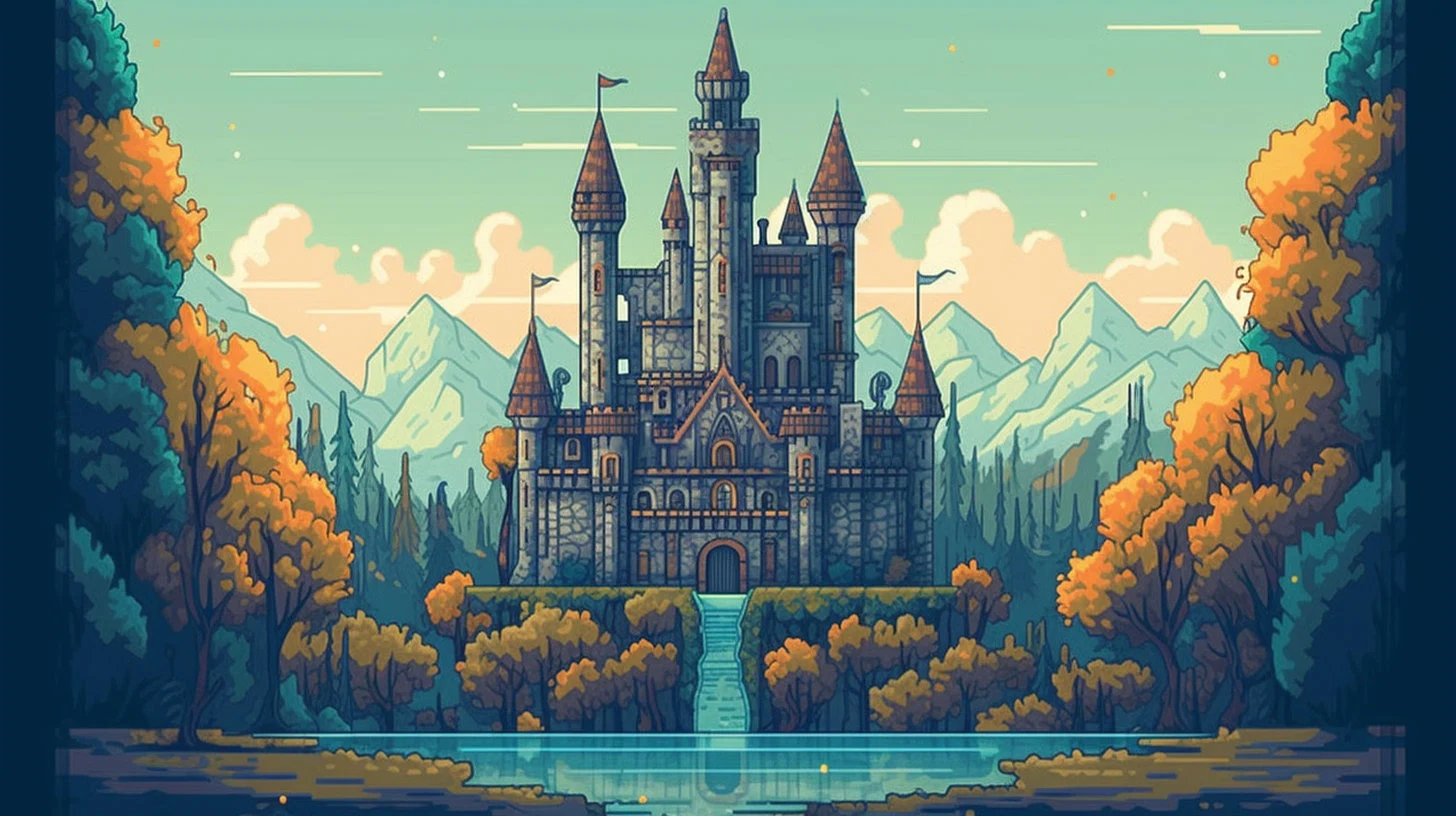
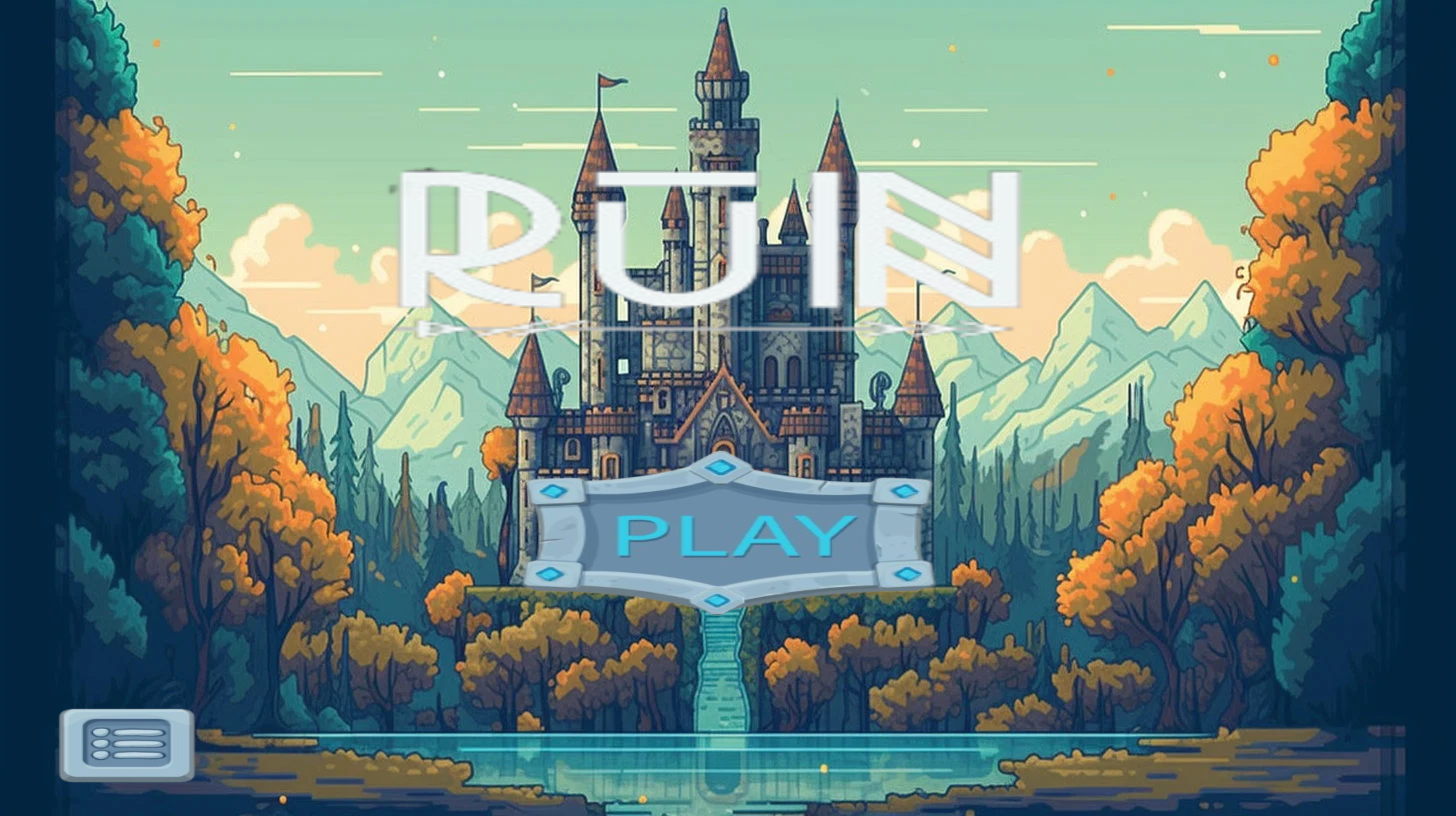
9032542356

Changed region(s): [[0.2473, 0.1838, 0.7109, 0.4289], [0.34, 0.5515, 0.649, 0.7659], [0.0309, 0.8578, 0.1545, 0.9804]]

diff --git a/main.py b/main.py
@@ -8,6 +8,8 @@ from clases.muro import muro
 from constants import *
 
 menu_flag = True
+game_over_flag = False
+
 direccion = True
 direccion_enemy = True
 aparicion_level1 = True
@@ -23,8 +25,6 @@ flag_coin2 = False
 flag_coin3 = False
 fin_timer = False
 win_flag = False
-game_flag = True #false
-game_over_flag = False
 
 milis = pygame.time.Clock()
 
@@ -50,6 +50,8 @@ imagen_level3 = pygame.image.load("./imgs/level 3.png") # Cargar imagen del fond
 level3_img = pygame.transform.scale(imagen_level3, (LARGO_PANTALLA, ANCHO_PANTALLA))
 imagen_ganar = pygame.image.load("imgs\end_img.png") # Cargar imagen del fondo
 win_img = pygame.transform.scale(imagen_ganar, (LARGO_PANTALLA, ANCHO_PANTALLA))
+imagen_menu = pygame.image.load("imgs\\fondo_game.png") # Cargar imagen del fondo
+menu_img = pygame.transform.scale(imagen_menu, (LARGO_PANTALLA, ANCHO_PANTALLA))
 screen = pygame.display.set_mode([LARGO_PANTALLA, ANCHO_PANTALLA]) #Se crea una ventana
 
 player1 = player(0, 0)
@@ -110,7 +112,12 @@ while running:
             running = False
         if event.type == pygame.MOUSEBUTTONDOWN:
             mouse = event.pos
-            print(mouse)
+            # print(mouse)
+            if menu_flag == True:
+                if (mouse[0] > 175 and mouse[0] < 330) and (mouse[1] < 380 and mouse[1] > 280):
+                    print(menu_flag)
+                    menu_flag = False
+                    # print(menu_flag)
             if game_over_flag == True:
                 if (mouse[0] > 0 and mouse[0] < 140) and (mouse[1] < 500 and mouse[1] > 440):
                     direccion = True
@@ -128,16 +135,33 @@ while running:
                     flag_coin3 = False
                     fin_timer = False
                     win_flag = False
-                    game_flag = True #false
                     game_over_flag = False
                 if (mouse[0] > 380 and mouse[0] < 500) and (mouse[1] < 500 and mouse[1] > 440):
-                    print("win")
+                    menu_flag = True
+                    direccion = True
+                    direccion_enemy = True
+                    aparicion_level1 = True
+                    aparicion_level2 = False #False
+                    aparicion_level3 = False #False
+                    score = 0
+                    segundos = 0
+                    level1 = True  #true
+                    level2 = False #false
+                    level3 = False #false
+                    flag_coin1 = False
+                    flag_coin2 = False
+                    flag_coin3 = False
+                    fin_timer = False
+                    win_flag = False
+                    game_over_flag = False
                 if (mouse[0] > 200 and mouse[0] < 300) and (mouse[1] < 500 and mouse[1] > 440):
                     print("win2")
         if event.type == timer_segundos:
             if fin_timer == False:
                 segundos = segundos + 1
-    if game_flag == True:
+    if menu_flag == True:
+        screen.blit(menu_img,(0,0))
+    elif menu_flag == False:
         accion_personaje = "stay"
         if game_over_flag == False:
             lista_teclas = pygame.key.get_pressed()
